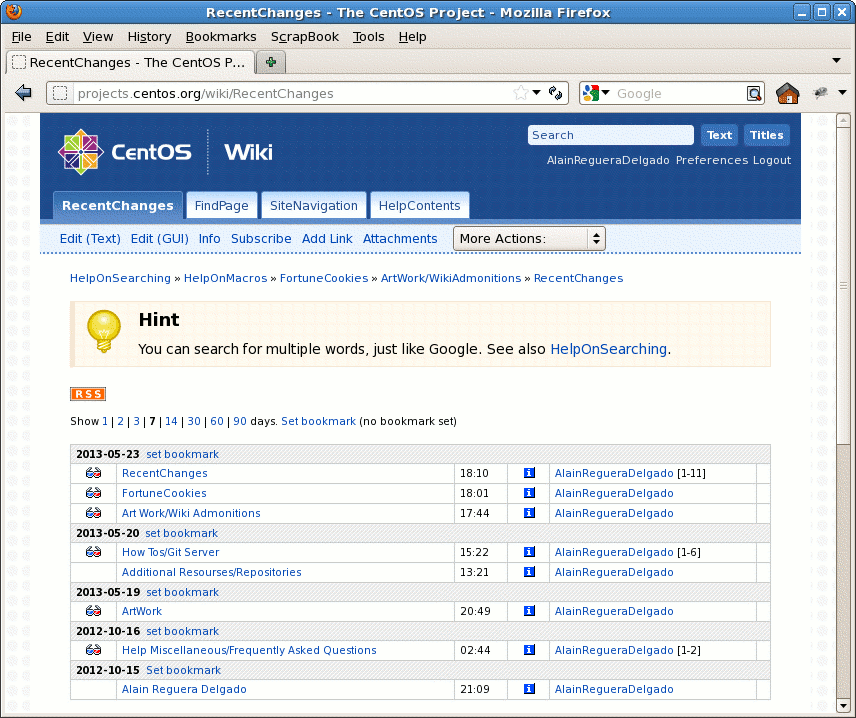
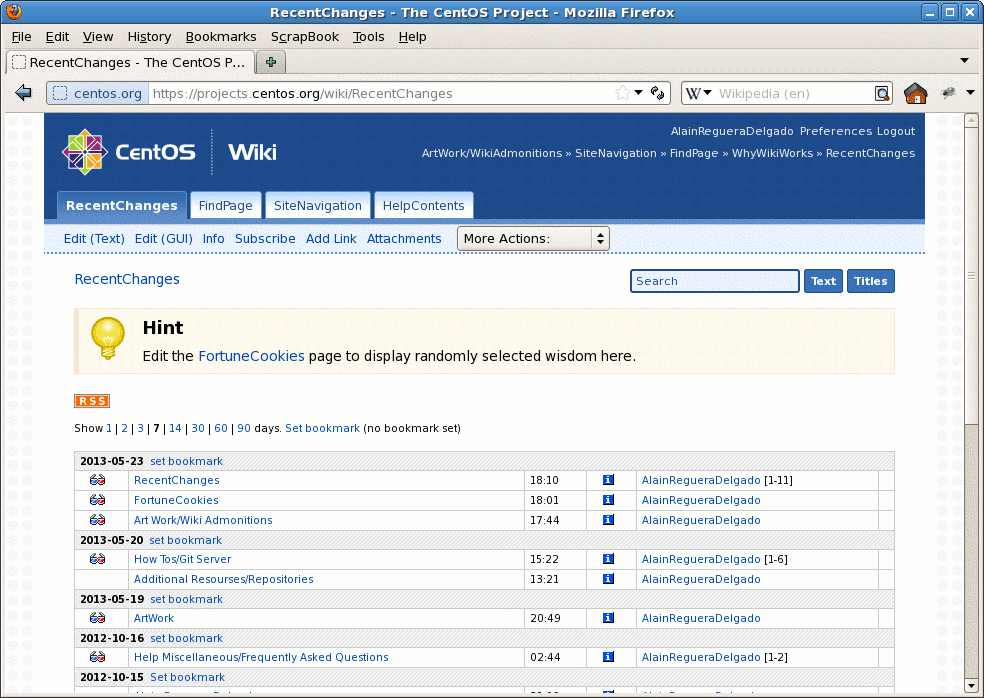
Update the Modern theme for MoinMoin wiki.
- Identity/Webenv/Themes/Default/Moin/1.5.9/Modern.py: Update
   position of search form and page title.

   The search form was moved from the heading top-right corner to the
   page content top-right side. The search form isn't visible when you
   are editing a page.

   The page title was added to page content top-left side. In the same
   visual line where search form is placed in. Here page title
   controls the way search form is displayed. The page title is
   displayed as a block, while the search form is floating on its
   right.

 - Identity/Webenv/Themes/Default/Moin/1.5.9/Modern/css/common.css:
   Don't make form element to display in line. This may create
   distortions when forms are shown inside lists (e.g., ul, li, etc.).
   Don't force all hr to be 1px height. There are hr1, hr2 ... hr6
   classes which purpose is control the horizontal rule height.

 - Identity/Webenv/Themes/Default/Moin/1.5.9/Modern/css/screen.css:
   Make user name margin 0 with the intention of saving space on top
   of it. Add some space (5px) between the search form and the edit
   bar elements. This way, the search form seems to be aligned with
   the page title on its left. The `-moz-border-radius' property is
   3px now. Reset the page trail style to fit the previous look on
   heading. Make page location 5px of both top-margin and
   bottom-margin. This helps to keep both page title and search form
   horizontally aligned one another. Add visual styles to reflect the
[…]

Changed region(s): [[0.0, 0.0, 1.0, 0.9928]]

diff --git a/Identity/Webenv/Themes/Default/Moin/1.5.9/Modern/css/screen.css b/Identity/Webenv/Themes/Default/Moin/1.5.9/Modern/css/screen.css
@@ -1113,7 +1113,7 @@ div#header div.tabs span:hover a span {
     }
 
 #username {
-    margin: 5px 0 0 0;
+    margin: 0;
     text-align: right;
     font-size: 0.82em;
     white-space: nowrap;
@@ -1153,10 +1153,11 @@ div#header div.tabs span:hover a span {
 
 #searchform {
     color: #FFFFFF; 
-    margin-right: 0;
+    margin-top: 5px;
     text-align: right;
     padding: 0;
     white-space: nowrap;
+    float: right;
     }
 
 *[dir="rtl"] #searchform {
@@ -1176,7 +1177,7 @@ div#header div.tabs span:hover a span {
     color: #204C8D;
     display: inline;
     width: 160px;
-    -moz-border-radius: 5px;
+    -moz-border-radius: 3px;
     }
 
 #titlesearch, #fullsearch {
@@ -1189,7 +1190,7 @@ div#header div.tabs span:hover a span {
     display: inline;
     font-weight: bold;
     text-decoration: none;
-    -moz-border-radius: 5px;
+    -moz-border-radius: 3px;
     }
 
 #searchform label {
@@ -1204,6 +1205,8 @@ div#header div.tabs span:hover a span {
 #pagetrail {
     font-size: 0.82em;
     margin: 5px 0 0 0;
+    color: #EEE;
+    text-align: right;
     }
 
 *[dir="rtl"] #pagetrail {
@@ -1236,9 +1239,7 @@ div#header div.tabs span:hover a span {
     }
 
 #pagelocation {
-    margin: 0;
-    margin-top: 1em;
-    margin-bottom: 0.5em;
+    margin: 5px 0;
     padding: 0;
     }
 
@@ -1284,6 +1285,12 @@ div#header div.tabs span:hover a span {
 #username a:visited { text-decoration: none; color: #EEE; }
 #username a:visited:hover { text-decoration: underline; color: #FFF; }
 
+#pagetrail a:link { text-decoration: none; color: #EEE; }
+#pagetrail a:hover { text-decoration: underline; color: #FFF; }
+#pagetrail a:active { text-decoration: underline; color: #FFF; }
+#pagetrail a:visited { text-decoration: none; color: #EEE; }
+#pagetrail a:visited:hover { text-decoration: underline; color: #FFF; }
+
 #userlinks {
     padding: 10px;
     }
@@ -1298,3 +1305,11 @@ div#header div.tabs span:hover a span {
     line-height: 5px;
     background: #628ECA;
     }
+
+/* Horizontal rules */
+hr.hr1 { height: 2px; }
+hr.hr2 { height: 3px; }
+hr.hr3 { height: 4px; }
+hr.hr4 { height: 5px; }
+hr.hr5 { height: 6px; }
+hr.hr6 { height: 7px; }

diff --git a/Identity/Webenv/Themes/Default/Moin/1.5.9/Modern/css/common.css b/Identity/Webenv/Themes/Default/Moin/1.5.9/Modern/css/common.css
@@ -199,7 +199,7 @@ code {
 
 hr {
     clear: both;
-    height: 1px ! important;
+    height: 1px;
     border: none;
     background-color: #DADADA;
     }
@@ -287,7 +287,7 @@ table tr td pre {
 -----------------------------------------------*/
 
 form {
-    display: inline;
+/*    display: inline;*/
     }
 
 input[type="submit"], 

diff --git a/Identity/Webenv/Themes/Default/Moin/1.5.9/Modern.py b/Identity/Webenv/Themes/Default/Moin/1.5.9/Modern.py
@@ -33,8 +33,8 @@ class Theme(ThemeBase):
             u'<div id="header">',
             self.logo(),
             u'<div id="userlinks">',
-            self.searchform(d),
             self.username(d),
+            self.trail(d),
             u'</div>',
 	        self.navibar(d),
     	    u'<div class="pageline"><hr style="display:none;" /></div>',
@@ -44,7 +44,8 @@ class Theme(ThemeBase):
             # Page
             self.msg(d),
             self.startPage(),
-            self.trail(d),
+            self.searchform(d),
+            self.title(d),
             ]
         return u'\n'.join(html)
 
@@ -66,8 +67,8 @@ class Theme(ThemeBase):
             u'<div id="header">',
             self.logo(),
             u'<div id="userlinks">',
-            self.searchform(d),
             self.username(d),
+            self.trail(d),
             u'</div>',
     	    u'<div class="pageline"><hr style="display:none;"></div>',
             u'</div>',
@@ -126,13 +127,12 @@ class Theme(ThemeBase):
 	        u'<img src="/error/include/img/wiki.png" alt="Wiki" />',
     	    u'<div class="userlinks">',
     	    self.username(d),
-	        self.searchform(d),
+            self.trail(d),
     	    u'</div>',
             u'<h1>Wiki</h1>',
             self.navibar(d),
             self.editbar(d),
             self.interwiki(d),
-            self.trail(d),
             self.title(d),
             u'</div>',
             ]
